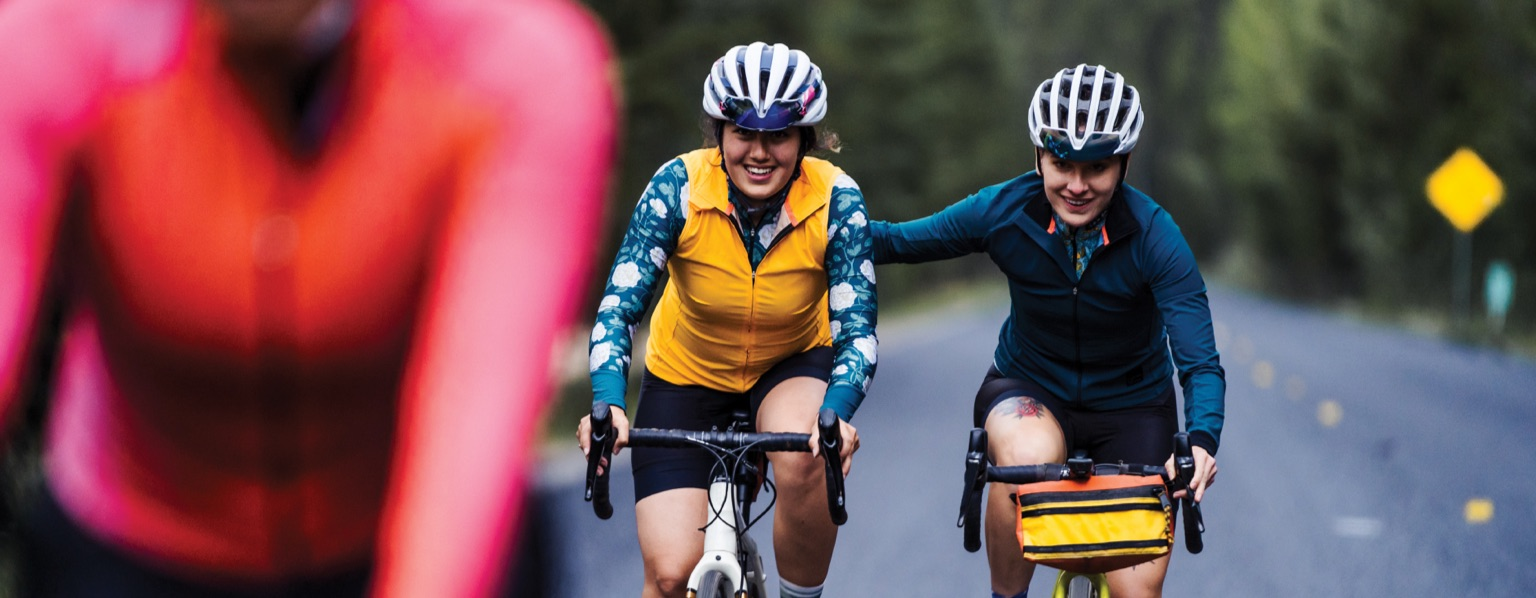
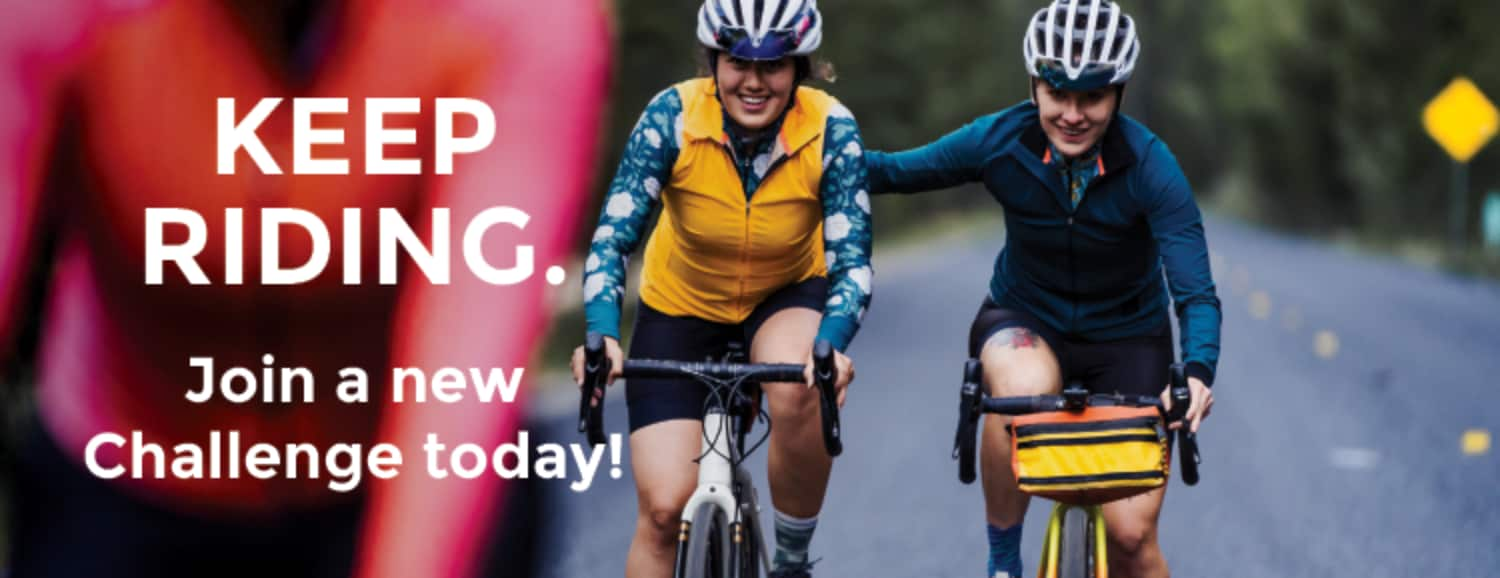
Image updates per spec

diff --git a/index.html b/index.html
@@ -365,12 +365,7 @@
               <td style="background-color: #F6F7F8; padding: 0 50px;">
                 <table role="presentation" cellspacing="0" cellpadding="0" border="0" width="100%">
                   <tr>
-                    <td style="padding: 20px 0 10px 0; font-family: sans-serif; font-size: 15px; line-height: 25px; color: #111111; text-align:center;">
-                      <h2>Keep Riding. Join a new Challenge today!</h2>
-                    </td>
-                  </tr>
-                  <tr>
-                    <td style="padding: 0 20px 40px 20px;">
+                    <td style="padding: 40px 20px 40px 20px;">
                       <!-- Button : BEGIN (should link to user profile > challenges) -->
                       <table align="center" role="presentation" cellspacing="0" cellpadding="0" border="0" style="margin: auto;">
                         <tr>
@@ -418,7 +413,7 @@
             <!-- Community Text : BEGIN -->
             <tr>
               <td style="background-color: #4B6275; padding: 0 10px;">
-                  <table role="presentation" cellspacing="0" cellpadding="0" border="0" width="500px">
+                  <table role="presentation" cellspacing="0" cellpadding="0" border="0" width="80%">
                       <tr>
                           <td style="padding: 10px 0 0 0; font-family: sans-serif; font-size: 15px; line-height: 25px; color: #F6F7F8;">
                             <img src="communities-text.png" width="500" height="" alt="PeopleForBikes Logo" border="0" style="width: 100%; max-width: 680px; height: auto; background: #4B6275; font-family: sans-serif; font-size: 15px; line-height: 15px; color: #ffffff; margin: auto; display: block;" class="g-img">
